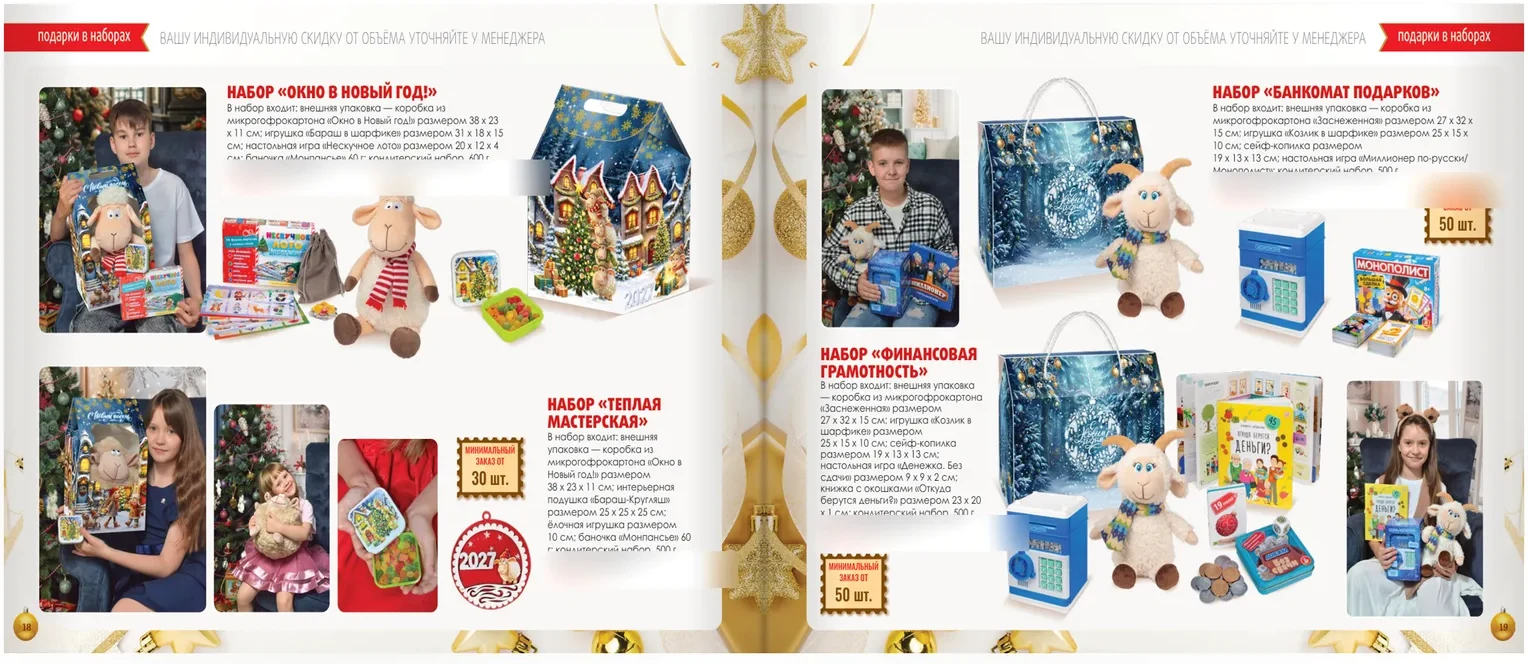
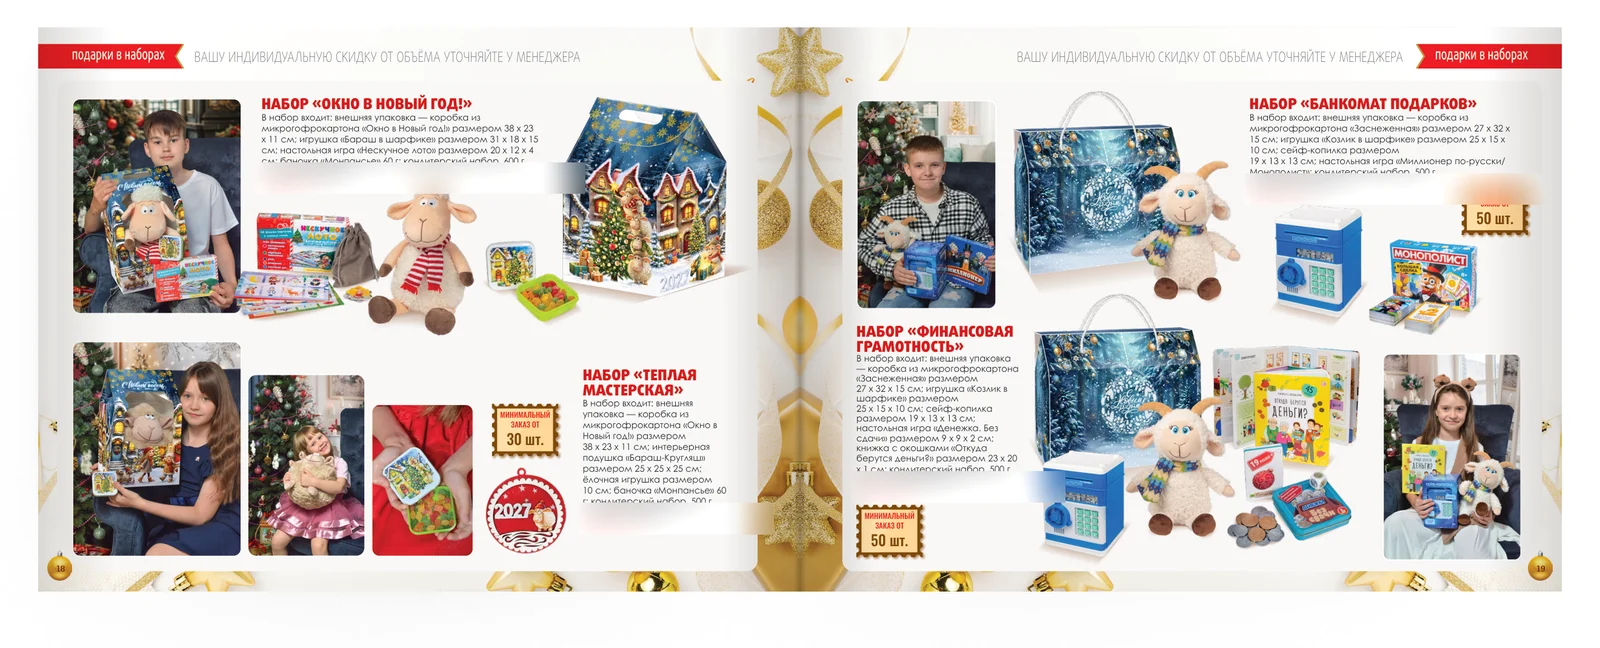
Calibri_gift: развороты каталога в настоящих пропорциях
Правка: «в „Полистайте наш каталог“ растянуто опять — должно быть как
в оригинале».

Настоящая причина — в шаблоне макета из её архива: место под разворот
в нём вытянуто по вертикали (половина рамки 1,17 против 1,35 у страницы
PDF), а make-spreads вклеивал страницы растяжением по этой рамке. Книга
выходила 2,34 : 1 вместо 2,70 : 1 — выше настоящей на 15%. Прошлая правка
только обрезала поля и расширила колонку, причину не трогала.

Теперь шаблон сначала сжимается по вертикали до пропорций страниц PDF,
и страницы вклеиваются без растяжения — текст рисуется сразу нужного
размера. Книга на всех восьми разворотах 2,71 : 1, файлы 1600×648,
поля вокруг книги как в её макете. Цены по-прежнему замыты.
crop-spreads.mjs удалён — он был заплатой к старой геометрии.

diff --git a/Calibri_gift/components/Formats.tsx b/Calibri_gift/components/Formats.tsx
@@ -150,12 +150,13 @@ function CatalogFlip({ onZoom }: { onZoom: (shot: Shot) => void }) {
         <button
           type="button"
           onClick={() => onZoom({ src: asset(`/catalog/${file}`), alt, caption: `Стр. ${pages}` })}
-          // Финальная правка: «почему сжато сильно по ширине и вытянуто вверх —
-          // так не должно быть». Две причины: колонка была max-w-3xl (768 px)
-          // против 920 у неё, и вокруг книги в самих файлах стояли белые поля
-          // (40 px сверху и по бокам, 80 снизу) — на кремовой подложке они
-          // читались частью листа. Колонка расширена, поля обрезаны
-          // (scripts/crop-spreads.mjs), пропорция теперь 2,3 : 1, как у неё.
+          // Правки заказчицы: «сжато по ширине и вытянуто вверх» и затем
+          // «растянуто опять — должно быть как в оригинале». Колонка — 920 px,
+          // как у неё. А главная причина была в самих файлах: шаблон макета
+          // вытягивал страницы по вертикали, книга выходила 2,34 : 1 вместо
+          // настоящих 2,70 : 1. scripts/make-spreads.mjs теперь собирает
+          // развороты в пропорциях PDF-каталога (книга 2,71 : 1), поля вокруг
+          // книги — как в её макете.
           className="relative w-full max-w-[920px] cursor-zoom-in overflow-hidden rounded-2xl bg-cream shadow-[0_24px_60px_rgba(8,14,30,0.55)]"
         >
           {/* ключ по файлу — картинка проявляется, а не подменяется рывком */}
@@ -166,8 +167,8 @@ function CatalogFlip({ onZoom }: { onZoom: (shot: Shot) => void }) {
             transition={{ duration: 0.3 }}
             src={asset(`/catalog/${file}`)}
             alt={alt}
-            width={1528}
-            height={664}
+            width={1600}
+            height={648}
             className="block h-auto w-full"
             draggable={false}
           />
